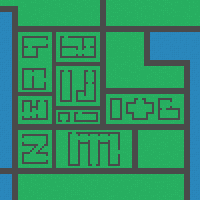
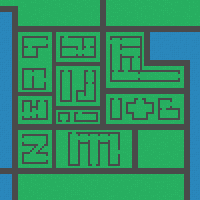
Playable state. Timed Survival

Changed region(s): [[0.54, 0.18, 0.9, 0.42], [0.57, 0.48, 0.6, 0.51]]

diff --git a/Game.js b/Game.js
@@ -16,7 +16,7 @@ var map;
 var pspeed = 256;
 
 var bulletstext;
-var bulletsremaining = [100, 1000, 10];
+var bulletsremaining = [10, 100, 1];
 
 var scoretext;
 
@@ -29,6 +29,11 @@ var zombieindex = 0;
 var minimap;
 var pointer;
 
+var boxes;
+var boxindex = 0;
+var boxesmarker;
+var bonusbullets;
+
 
 
 ZombieGame.Game.prototype = {
@@ -37,6 +42,9 @@ ZombieGame.Game.prototype = {
 
 	create: function () {
 		zombieindex = 0;
+		boxindex = 0;
+		bulletsremaining = [10, 100, 1];
+		bonusbullets = 10;
 
 		map = this.add.tilemap('00');
 		map.addTilesetImage('tiles', 'tiles');
@@ -84,17 +92,33 @@ ZombieGame.Game.prototype = {
 
 
 		this.timer1 = this.game.time.create(false);
-		this.timer1.loop(1000, function () {
-			var zombie = zombies.create(this.world.randomX, this.world.randomY, 'enemy');
-			var newhealth = Math.floor(Math.random() * zombiemaxhealth) + 1;
-			zombies.set(zombies.children[zombieindex], "health", newhealth);
-			zombies.setAll('anchor.x', 0.5);
-			zombies.setAll('anchor.y', 0.5);
-			zombies.children[zombieindex].body.setSize(40, 40, 0, 0);
+		this.timer1.loop(200, function () {
+			if (zombies.length >= 100) {} else {
+				var zombie = zombies.create(this.world.randomX, this.world.randomY, 'enemy');
+				var newhealth = Math.floor(Math.random() * zombiemaxhealth) + 1;
+				zombies.set(zombies.children[zombieindex], "health", newhealth);
+				zombies.setAll('anchor.x', 0.5);
+				zombies.setAll('anchor.y', 0.5);
+				zombies.children[zombieindex].body.setSize(40, 40, 0, 0);
 
-			zombieindex++
+				zombieindex++
+			}
 		}, this);
 		this.timer1.start();
+
+		boxes = this.add.group();
+		this.physics.arcade.enable(boxes);
+		boxes.enableBody = true;
+
+		var boxesmarkers = this.add.group();
+
+		this.timer2 = this.game.time.create(false);
+		this.timer2.loop(5000, function () {
+			var box = boxes.create(this.world.randomX, this.world.randomY, 'crate');
+			boxes.setAll('anchor.x', 0.5);
+			boxes.setAll('anchor.y', 0.5);
+		}, this);
+		this.timer2.start();
 
 		map.setCollisionBetween(109, 126);
 		map.setCollisionBetween(136, 153);
@@ -104,7 +128,7 @@ ZombieGame.Game.prototype = {
 		map.setCollisionBetween(244, 261);
 
 
-		map.setTileIndexCallback(129, this.collectbullets, this);
+
 
 		bulletstext = this.add.text(0, 0, "Bullets: " + bulletsremaining[selectedweapon], {
 			font: "60px Arial",
@@ -140,11 +164,13 @@ ZombieGame.Game.prototype = {
 
 	update: function () {
 		player.bringToTop();
+		minimap.bringToTop();
 		pointer.bringToTop();
 		player.frame = selectedweapon;
 		gunhud.frame = selectedweapon;
 		this.physics.arcade.collide(player, layer);
 		this.physics.arcade.collide(zombies, layer);
+		this.physics.arcade.collide(player, boxes, this.collectbullets);
 		this.physics.arcade.collide(bullets, layer, function (x, y) {
 			//x.x = -1337;
 			x.kill();
@@ -196,18 +222,21 @@ ZombieGame.Game.prototype = {
 			fireRate = 500;
 			bulletdamage = 3;
 			accuarcity = 15;
+			bonusbullets = 10;
 		} else
 		if (wasd.two.isDown) {
 			selectedweapon = 1
 			fireRate = 50;
 			bulletdamage = 15 / 10;
 			accuarcity = 35;
+			bonusbullets = 100;
 		} else
 		if (wasd.three.isDown) {
 			selectedweapon = 2
 			fireRate = 1000;
 			bulletdamage = 10;
 			accuarcity = 0;
+			bonusbullets = 1;
 		}
 
 		if (wasd.dbug.isDown) {
@@ -235,6 +264,7 @@ ZombieGame.Game.prototype = {
 				this.body(singleEnemy);
 			}, this.game.debug);
 		}
+		this.game.debug.text(this.game.time.fps || '--', 2, 14, "#000000");
 	},
 
 	fire: function () {
@@ -268,7 +298,7 @@ ZombieGame.Game.prototype = {
 	collectbullets: function (x, y) {
 		y.destroy();
 		score += 50;
-		bulletsremaining[selectedweapon] += 5;
+		bulletsremaining[selectedweapon] += bonusbullets;
 	},
 	zombieupdate: function (singleEnemy) {
 

diff --git a/Preloader.js b/Preloader.js
@@ -52,6 +52,7 @@ ZombieGame.Preloader.prototype = {
 		this.load.image('crate', 'assets/crate.png');
 		this.load.image('minimap', 'maps/minimap.png');
 		this.load.image('pointer', 'maps/pointer.png');
+		this.load.image('boxpointer', 'maps/boxpointer.png');
 
 
 
